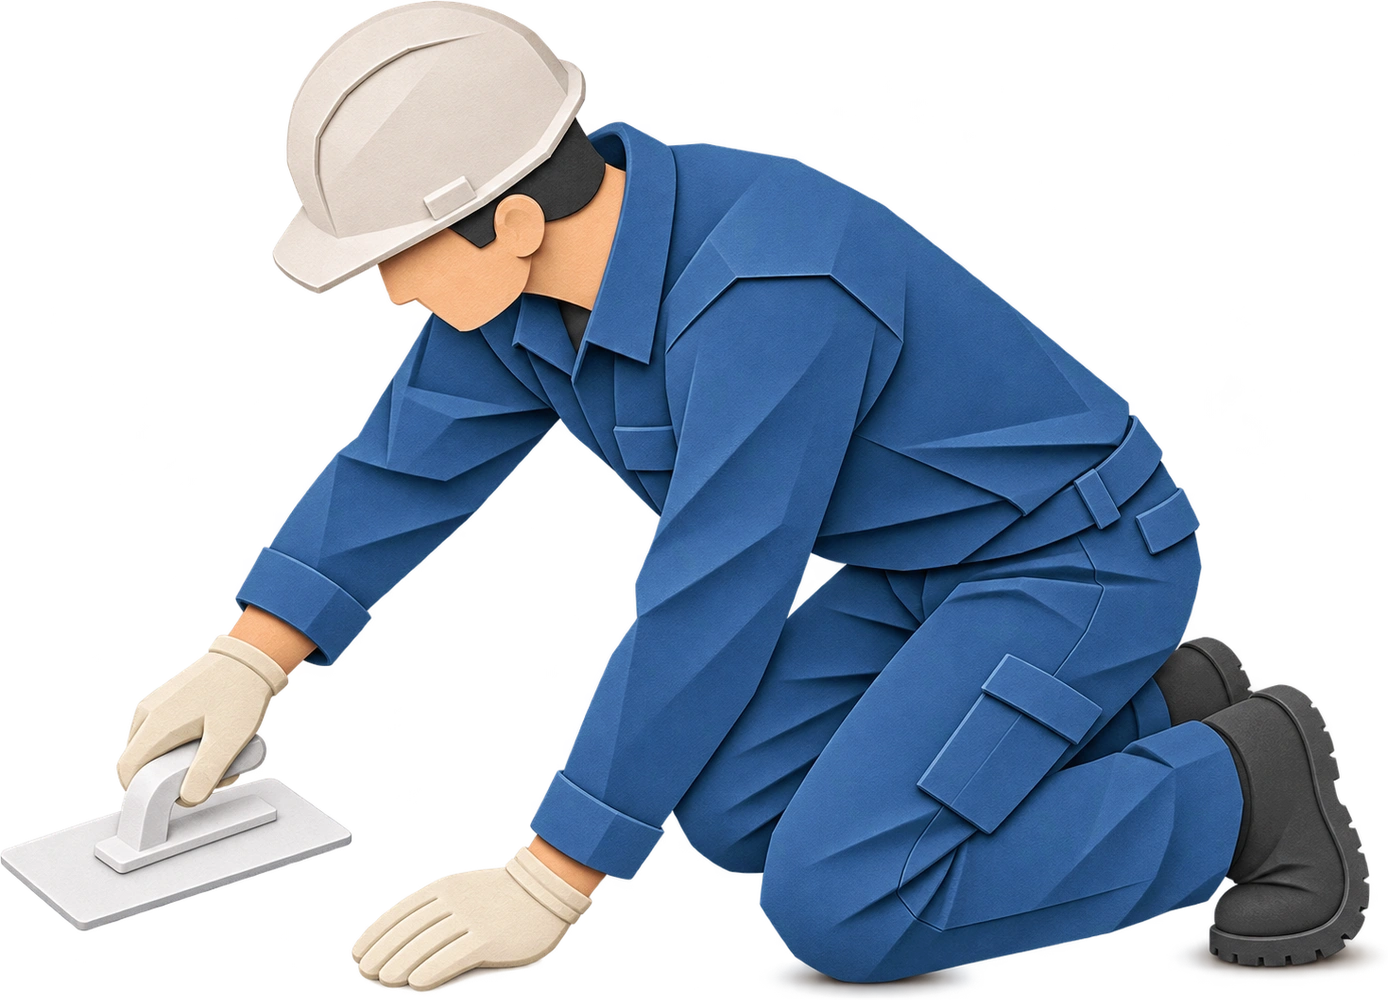
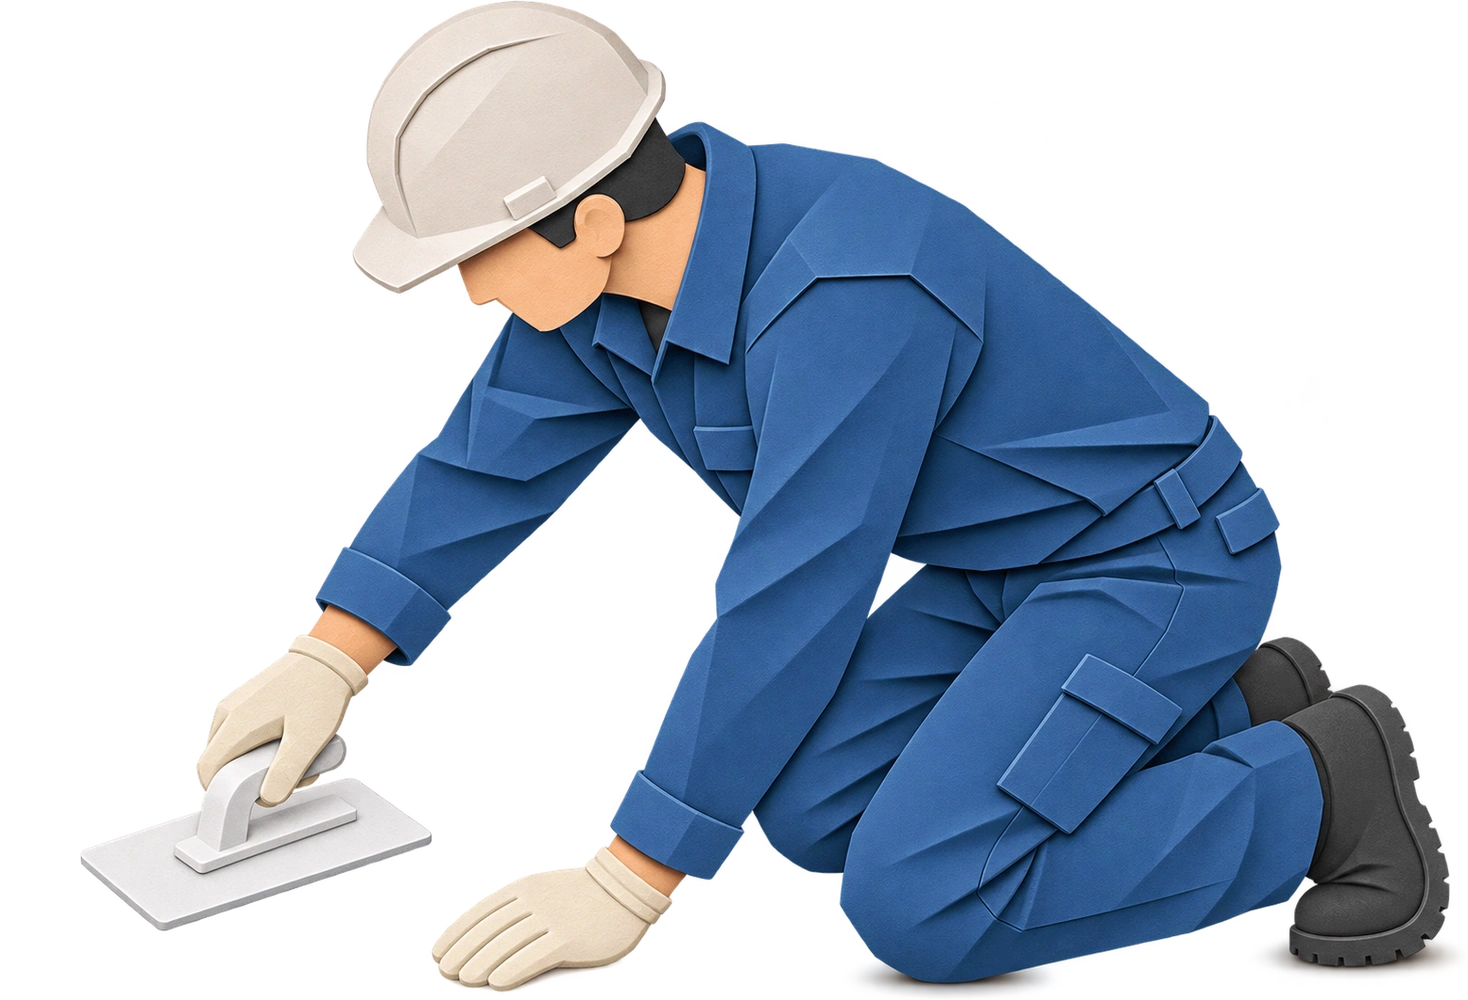
asdfa

diff --git a/js/hex.js b/js/hex.js
@@ -579,6 +579,7 @@ const HEX_IS_PRODUCTION=HEX_HOSTS.PRODUCTION.indexOf(location.hostname)!==-1;
     if(/^(?:left|right)_bottom04\.webp$/i.test(file))file+='?v=20261029-oriented';
     if(!/^[^/\\?#]+\.(?:avif|gif|jpe?g|png|svg|webp)(?:[?#].*)?$/i.test(file))return null;
     var url=new URL(file,imageRoot);
+    if(/^sakan1\.webp(?=[?#]|$)/i.test(file))url.searchParams.set('v','20261127-arm-frames');
     if(sceneAsset.test(file)){
       var version=/^(?:drawing|tree|underplant)/i.test(file)?'20261118-cropped':'20261118-restored';
       url.searchParams.set('v',version);
@@ -594,7 +595,7 @@ const HEX_IS_PRODUCTION=HEX_HOSTS.PRODUCTION.indexOf(location.hostname)!==-1;
         var current=image.getAttribute('src')||'';
         if(current.indexOf(imageRoot)===0){
           var filename=current.slice(imageRoot.length);
-          url=/^(aluminum|pruning|sakan|block|supervisor)\.(png|webp)(?=[?#]|$)/i.test(filename)
+          url=/^(?:(?:aluminum|pruning|sakan|block|supervisor)\.(?:png|webp)|sakan1\.webp)(?=[?#]|$)/i.test(filename)
             ?resolve(filename):current;
         }
       }

diff --git a/css/hex_pc.css b/css/hex_pc.css
@@ -5191,7 +5191,8 @@ html body
 .hex-hero-character--family{--hex-sprite-x:30%;--hex-sprite-bottom:30%;--hex-sprite-width:8.8%;}
 .hex-hero-character--supervisor{--hex-sprite-x:30%;--hex-sprite-bottom:45%;--hex-sprite-width:3.8%;}
 .hex-hero-character--block{--hex-sprite-x:38.4%;--hex-sprite-bottom:42.7%;--hex-sprite-width:5%;}
-.hex-hero-character--sakan{--hex-sprite-x:61%;--hex-sprite-bottom:40%;--hex-sprite-width:6%;}
+/* Preserve registration after adding 80 transparent pixels to the left of the 1388px original. */
+.hex-hero-character--sakan{--hex-sprite-x:60.6541786744%;--hex-sprite-bottom:40%;--hex-sprite-width:6.3458213256%;}
 .hex-hero-character--pruning{--hex-sprite-x:50.5%;--hex-sprite-bottom:41.5%;--hex-sprite-width:4%;}
 .hex-hero-character--aluminum{--hex-sprite-x:70.7%;--hex-sprite-bottom:44%;--hex-sprite-width:2.54%;}
 
